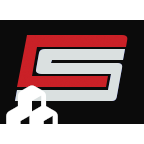
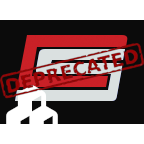
refactor: migrated to khaoscircuitry

Changed region(s): [[0.0, 0.2778, 1.0, 0.6944]]

diff --git a/README.md b/README.md
@@ -1,7 +1,6 @@
-[![Factorio Mod Portal page](https://img.shields.io/badge/dynamic/json?color=orange&label=Factorio&query=downloads_count&suffix=%20downloads&url=https%3A%2F%2Fmods.factorio.com%2Fapi%2Fmods%2Fcybersyn-tweaks&style=for-the-badge)](https://mods.factorio.com/mod/cybersyn-tweaks) [![Crowdin Translate](https://img.shields.io/badge/Crowdin-Translate-brightgreen?style=for-the-badge)](https://crowdin.com/project/factorio-mods-localization) [![](https://img.shields.io/github/issues/QuingKhaos/cybersyn-tweaks/bug?label=Bug%20Reports&style=for-the-badge)](https://github.com/QuingKhaos/cybersyn-tweaks/issues?q=is%3Aissue%20state%3Aopen%20label%3Abug) [![](https://img.shields.io/github/issues-pr/QuingKhaos/cybersyn-tweaks?label=Pull%20Requests&style=for-the-badge)](https://github.com/QuingKhaos/cybersyn-tweaks/pulls) [![Ko-fi](https://img.shields.io/badge/Ko--fi-support%20me-ff5e5b?logo=kofi&logoColor=white&style=for-the-badge)](https://ko-fi.com/quingkhaos)
+[![The Foundry](https://img.shields.io/badge/foundrygg-4a1402?style=for-the-badge&logo=vercel&logoColor=white)](https://foundrygg.com/)
+[![Discord community](https://img.shields.io/badge/Discord-%235865F2.svg?style=for-the-badge&logo=discord&logoColor=white)](https://discord.gg/SYmkaDjFCt)
 
-# Project Cybersyn Tweaks
+# [DEPRECATED] Project Cybersyn Tweaks
 
-Opinionated tweaks to [Project Cybersyn - Logistics Train Dispatcher](https://mods.factorio.com/mod/cybersyn). For a full list of changes, take a look at the changelog.
-
-If you want to see some new tweaks, feel free to open a discussion thread on the mod portal or a GitHub issue. Eventually some non so opiniated tweaks will make it into the original mod.
+Functionality migrated to [QuingKhaos' Circuitry Tweaks](https://mods.factorio.com/mod/khaoscircuitry).
